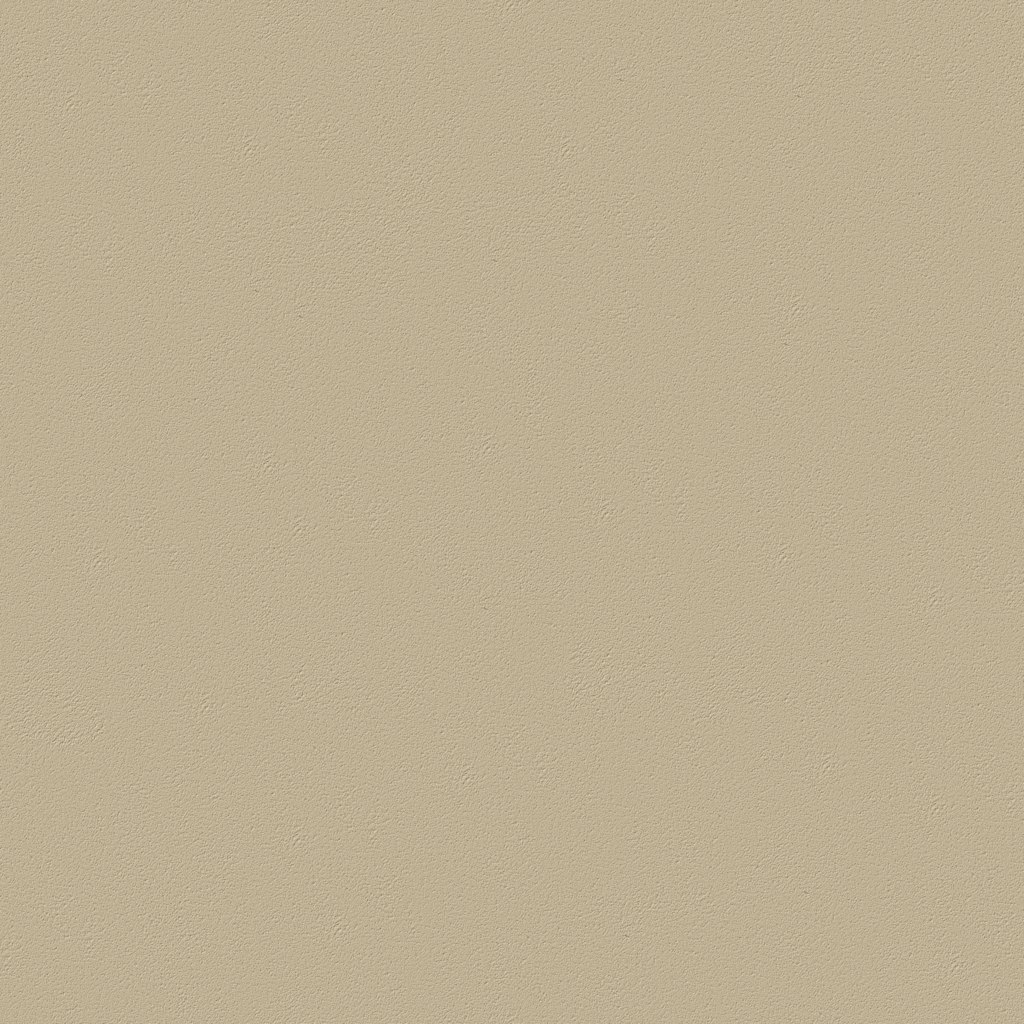
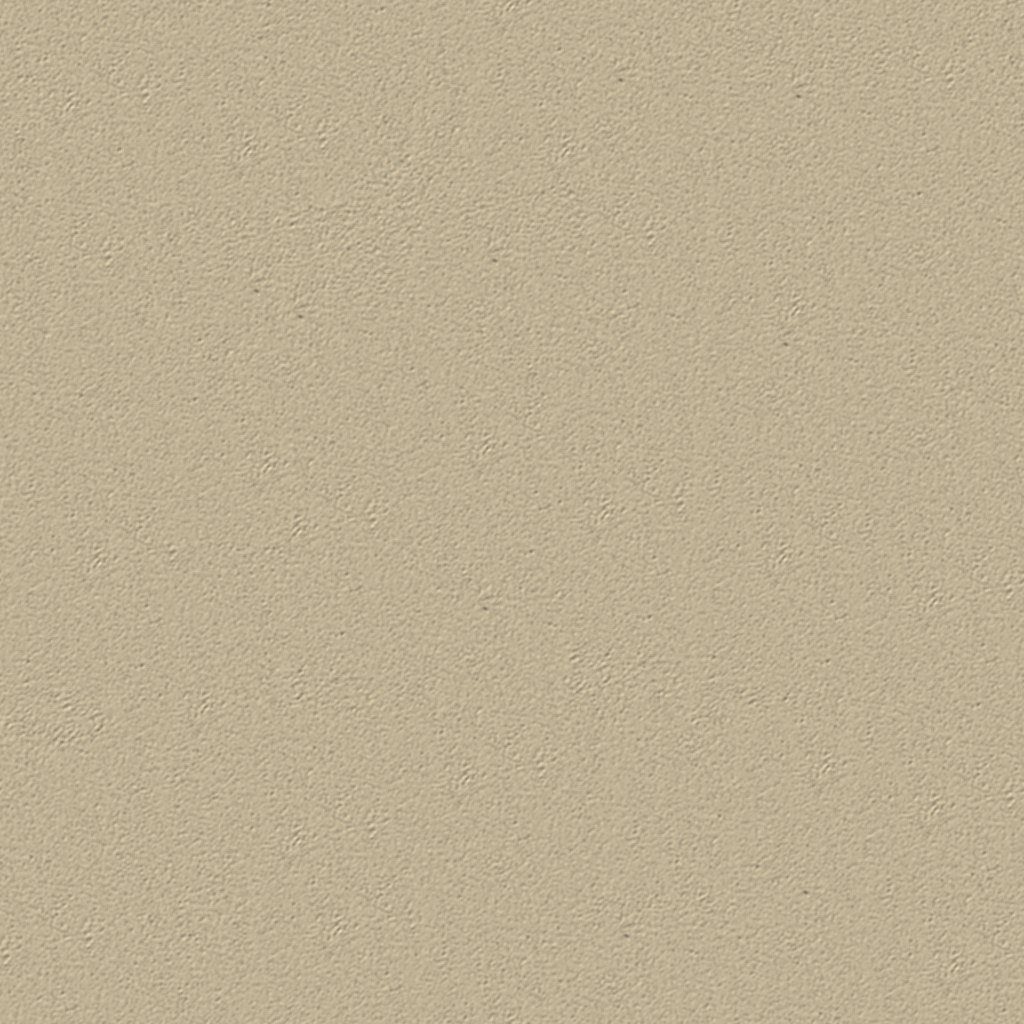
Postav generat din zgomot fin, fără arcurile din fotografie; piele 1024 px

diff --git a/docs/superpowers/specs/2026-11-14-tabla-b-design.md b/docs/superpowers/specs/2026-11-14-tabla-b-design.md
@@ -31,7 +31,7 @@ Adânciturile au rotunjirea 12. Marginea exterioară are 12 + 18 = 30, deci rama
 - Piesele scoase stau pe muchie, la mărimea reală a pieselor de pe tablă (34 lungime, 8 grosime). Arată ca un cilindru: mai luminoase la mijloc, mai închise spre capete, cu inelul teșit vizibil lângă capete, o muchie fină de lumină și o umbră pe capetele din stânga și dreapta, nu dedesubt, ca să nu intre peste piesa următoare (neagră și intensă: opacitate .9 la albe, .55 la negre; capetele albelor se închid până la #5f553f). Încap 15 într-un buzunar.
 
 ### Texturi foto
-- Sursa sunt trei texturi CC0 de pe ambientCG: Leather037, Leather039, Fabric034.
+- Sursa pentru piele: două texturi CC0 de pe ambientCG (Leather037, Leather039). Postavul și tava nu mai folosesc fotografia Fabric034, care avea arcuri subțiri, curbate, vizibile pe tablă; sunt generate din zgomot fin filtrat pe bandă și luminat ca relief.
 - Relieful e luat din harta de normale, luminat din stânga-sus și nuanțat cu culorile tablei.
 - Rezultă 5 plăci de 512 px, desenate la 200 de unități (aproape 1:1 pe ecran, ca să rămână clare); relieful trece printr-un filtru care scoate petele mari (rotunde): `tex/rail.jpg` (ramă), `tex/cream.jpg`, `tex/red.jpg`, `tex/felt.jpg`, `tex/tray.jpg`.
 - Plăcile se generează o singură dată și intră în proiect; arhivele originale nu.

diff --git a/CLAUDE.md b/CLAUDE.md
@@ -9,7 +9,7 @@ Se publică pe GitHub Pages și se instalează ca aplicație (PWA) pe tabletă, 
 - `gnubg.wasm` — motorul GNU Backgammon compilat în WebAssembly (pornit într-un Worker din index.html).
 - `lib/three.min.js` (r128), `lib/cannon.min.js` (0.6.2) — grafica și fizica zarurilor 3D. Versiunile sunt fixe; nu le actualiza.
 - `fonts/` + `fonts.css` — Playfair Display (titluri) și Hanken Grotesk (text), doar subseturile latin și latin-ext.
-- `tex/` — texturile tablei (piele, postav), plăci de 512 px nuanțate cu culorile tablei; relieful vine din texturi ambientCG (CC0, fără atribuire obligatorie): Leather037, Leather039, Fabric034.
+- `tex/` — texturile tablei (piele, postav), plăci de 512 px nuanțate cu culorile tablei; pielea are relieful din texturi ambientCG (CC0, fără atribuire obligatorie): Leather037, Leather039; postavul e generat din zgomot filtrat. `grain.png`/`grain-w.png` — fibra de lemn a pieselor, generată.
 - `manifest.webmanifest`, `icon-192.png`, `icon-512.png`, `sw.js` — instalare ca aplicație și funcționare offline.
 
 ## Rulare locală
